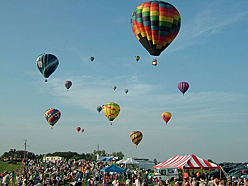
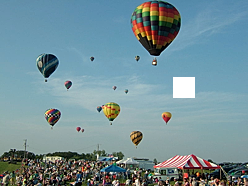
inpainting.py

Changed region(s): [[0.6774, 0.4032, 0.7903, 0.5376]]

diff --git a/inpainting.py b/inpainting.py
@@ -1,5 +1,6 @@
 import os
 os.environ['KMP_DUPLICATE_LIB_OK']='True'
+import cv2
 from SinGAN.manipulate import *
 from SinGAN.training import *
 from SinGAN.imresize import imresize
@@ -11,10 +12,10 @@ if __name__ == '__main__':
     parser = get_arguments()
     parser.add_argument('--input_dir', help='input image dir', default='Input/Images')
     parser.add_argument('--input_name', help='training image name', required=True)
-    parser.add_argument('--ref_dir', help='input reference dir', default='Input/Harmonization')
+    parser.add_argument('--ref_dir', help='input reference dir', default='Input/Inpainting')
     parser.add_argument('--ref_name', help='reference image name', required=True)
-    parser.add_argument('--harmonization_start_scale', help='harmonization injection scale', type=int, required=True)
-    parser.add_argument('--mode', help='task to be done', default='harmonization')
+    parser.add_argument('--inpainting_start_scale', help='inpainting injection scale', type=int, required=True)
+    parser.add_argument('--mode', help='task to be done', default='inpainting')
     opt = parser.parse_args()
     opt = functions.post_config(opt)
     Gs = []
@@ -34,10 +35,18 @@ if __name__ == '__main__':
         real = functions.read_image(opt)
         real = functions.adjust_scales2image(real, opt)
         Gs, Zs, reals, NoiseAmp = functions.load_trained_pyramid(opt)
-        if (opt.harmonization_start_scale < 1) | (opt.harmonization_start_scale > (len(Gs)-1)):
+        if (opt.inpainting_start_scale < 1) | (opt.inpainting_start_scale > (len(Gs)-1)):
             print("injection scale should be between 1 and %d" % (len(Gs)-1))
         else:
-            ref = functions.read_image_dir('%s/%s' % (opt.ref_dir, opt.ref_name), opt)
+            #Filling the part to be inpainted with the average of its surrounding pixels
+            im_mask = cv2.imread('%s/%s_mask%s' % (opt.ref_dir, opt.ref_name[:-4], opt.ref_name[-4:]))
+            img = cv2.imread('%s/%s' % (opt.input_dir, opt.ref_name))
+            im_mask = im_mask / 255
+            for k in range(3):
+                img[:, :, k][im_mask[:, :, k] == 1] = img[:, :, k][im_mask[:, :, k] == 0].mean()
+
+            cv2.imwrite('%s/%s_global_mean%s' % (opt.input_dir, opt.ref_name[:-4], opt.ref_name[-4:]), img)
+            ref = functions.read_image_dir('%s/%s_global_mean%s' % (opt.input_dir, opt.ref_name[:-4], opt.ref_name[-4:]), opt)
             mask = functions.read_image_dir('%s/%s_mask%s' % (opt.ref_dir,opt.ref_name[:-4],opt.ref_name[-4:]), opt)
             if ref.shape[3] != real.shape[3]:
                 mask = imresize_to_shape(mask, [real.shape[2], real.shape[3]], opt)
@@ -47,11 +56,11 @@ if __name__ == '__main__':
             mask = functions.dilate_mask(mask, opt)
 
             N = len(reals) - 1
-            n = opt.harmonization_start_scale
+            n = opt.inpainting_start_scale
             in_s = imresize(ref, pow(opt.scale_factor, (N - n + 1)), opt)
             in_s = in_s[:, :, :reals[n - 1].shape[2], :reals[n - 1].shape[3]]
             in_s = imresize(in_s, 1 / opt.scale_factor, opt)
             in_s = in_s[:, :, :reals[n].shape[2], :reals[n].shape[3]]
             out = SinGAN_generate(Gs[n:], Zs[n:], reals, NoiseAmp[n:], opt, in_s, n=n, num_samples=1)
             out = (1-mask)*real+mask*out
-            plt.imsave('%s/start_scale=%d.png' % (dir2save,opt.harmonization_start_scale), functions.convert_image_np(out.detach()), vmin=0, vmax=1)
+            plt.imsave('%s/start_scale=%d.png' % (dir2save,opt.inpainting_start_scale), functions.convert_image_np(out.detach()), vmin=0, vmax=1)

diff --git a/SinGAN/functions.py b/SinGAN/functions.py
@@ -271,6 +271,8 @@ def generate_dir2save(opt):
         dir2save = '%s/SR/%s' % (opt.out, opt.sr_factor)
     elif opt.mode == 'harmonization':
         dir2save = '%s/Harmonization/%s/%s_out' % (opt.out, opt.input_name[:-4],opt.ref_name[:-4])
+    elif opt.mode == 'inpainting':
+        dir2save = '%s/Inpainting/%s/%s_out' % (opt.out, opt.input_name[:-4], opt.ref_name[:-4])
     elif opt.mode == 'editing':
         dir2save = '%s/Editing/%s/%s_out' % (opt.out, opt.input_name[:-4],opt.ref_name[:-4])
     elif opt.mode == 'paint2image':
@@ -337,6 +339,8 @@ def quant2centers(paint, centers):
 
 def dilate_mask(mask,opt):
     if opt.mode == "harmonization":
+        element = morphology.disk(radius=7)
+    if opt.mode == "inpainting":
         element = morphology.disk(radius=7)
     if opt.mode == "editing":
         element = morphology.disk(radius=20)
